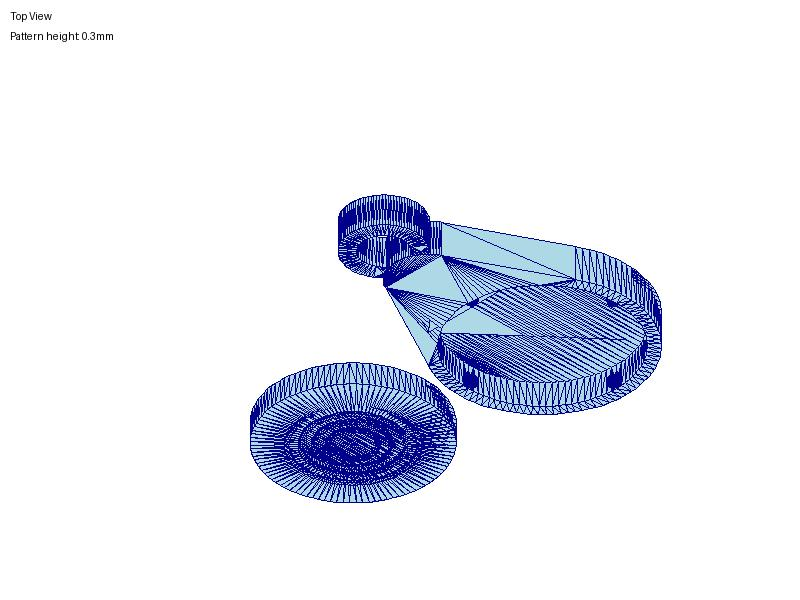
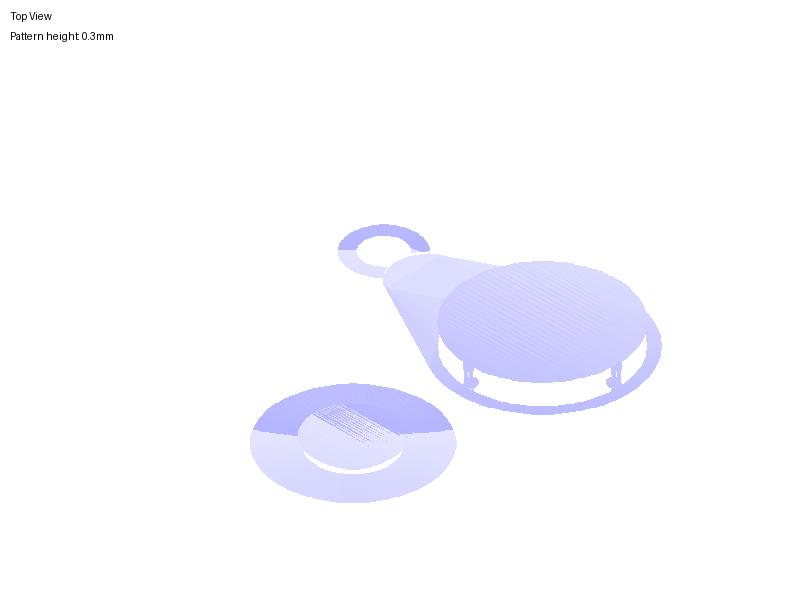
Fix solid rendering with backface culling and depth shading
- Added backface culling (only draw front-facing triangles)
- Removed outlines for true solid appearance
- Added depth-based color variation for 3D effect
- Proper back-to-front sorting

Changed region(s): [[0.3125, 0.3, 0.8438, 0.84]]

diff --git a/coin/render-coin.py b/coin/render-coin.py
@@ -62,17 +62,38 @@ def render_view(triangles, bounds, angle_x, angle_z, output_file, view_name):
         iy = (x3 + y3) * math.sin(angle) * scale - z2 * scale
         return (width/2 + ix, height/2 - iy + 50)
     
-    # Sort and draw triangles (solid fill)
-    tri_depths = []
+    # Calculate normals and sort by depth
+    tri_data = []
     for tri in triangles:
-        # Calculate average depth for sorting
-        avg_depth = sum(v[0] + v[1] + v[2] for v in tri) / 3
-        tri_depths.append((avg_depth, tri))
-    tri_depths.sort()
+        # Calculate normal
+        v1 = [tri[1][i] - tri[0][i] for i in range(3)]
+        v2 = [tri[2][i] - tri[0][i] for i in range(3)]
+        normal = [
+            v1[1]*v2[2] - v1[2]*v2[1],
+            v1[2]*v2[0] - v1[0]*v2[2],
+            v1[0]*v2[1] - v1[1]*v2[0]
+        ]
+        
+        # Calculate depth (average z after rotation)
+        avg_depth = sum(v[0] + v[1] - v[2] for v in tri) / 3
+        
+        # Check if facing camera (backface culling)
+        view_dir = [0, 0, 1]
+        dot = sum(normal[i] * view_dir[i] for i in range(3))
+        
+        tri_data.append((avg_depth, tri, dot > 0))
     
-    for _, tri in tri_depths:
-        pts = [project(*v) for v in tri]
-        draw.polygon(pts, fill='lightblue', outline='darkblue')
+    # Sort back to front
+    tri_data.sort(reverse=True)
+    
+    # Draw only front-facing triangles
+    for depth, tri, is_front in tri_data:
+        if is_front:
+            pts = [project(*v) for v in tri]
+            # Vary color slightly based on depth for 3D effect
+            brightness = int(180 + (depth % 50))
+            color = (brightness, brightness, 255)
+            draw.polygon(pts, fill=color, outline=None)
     
     # Add label
     draw.text((10, 10), f"{view_name}", fill='black')
